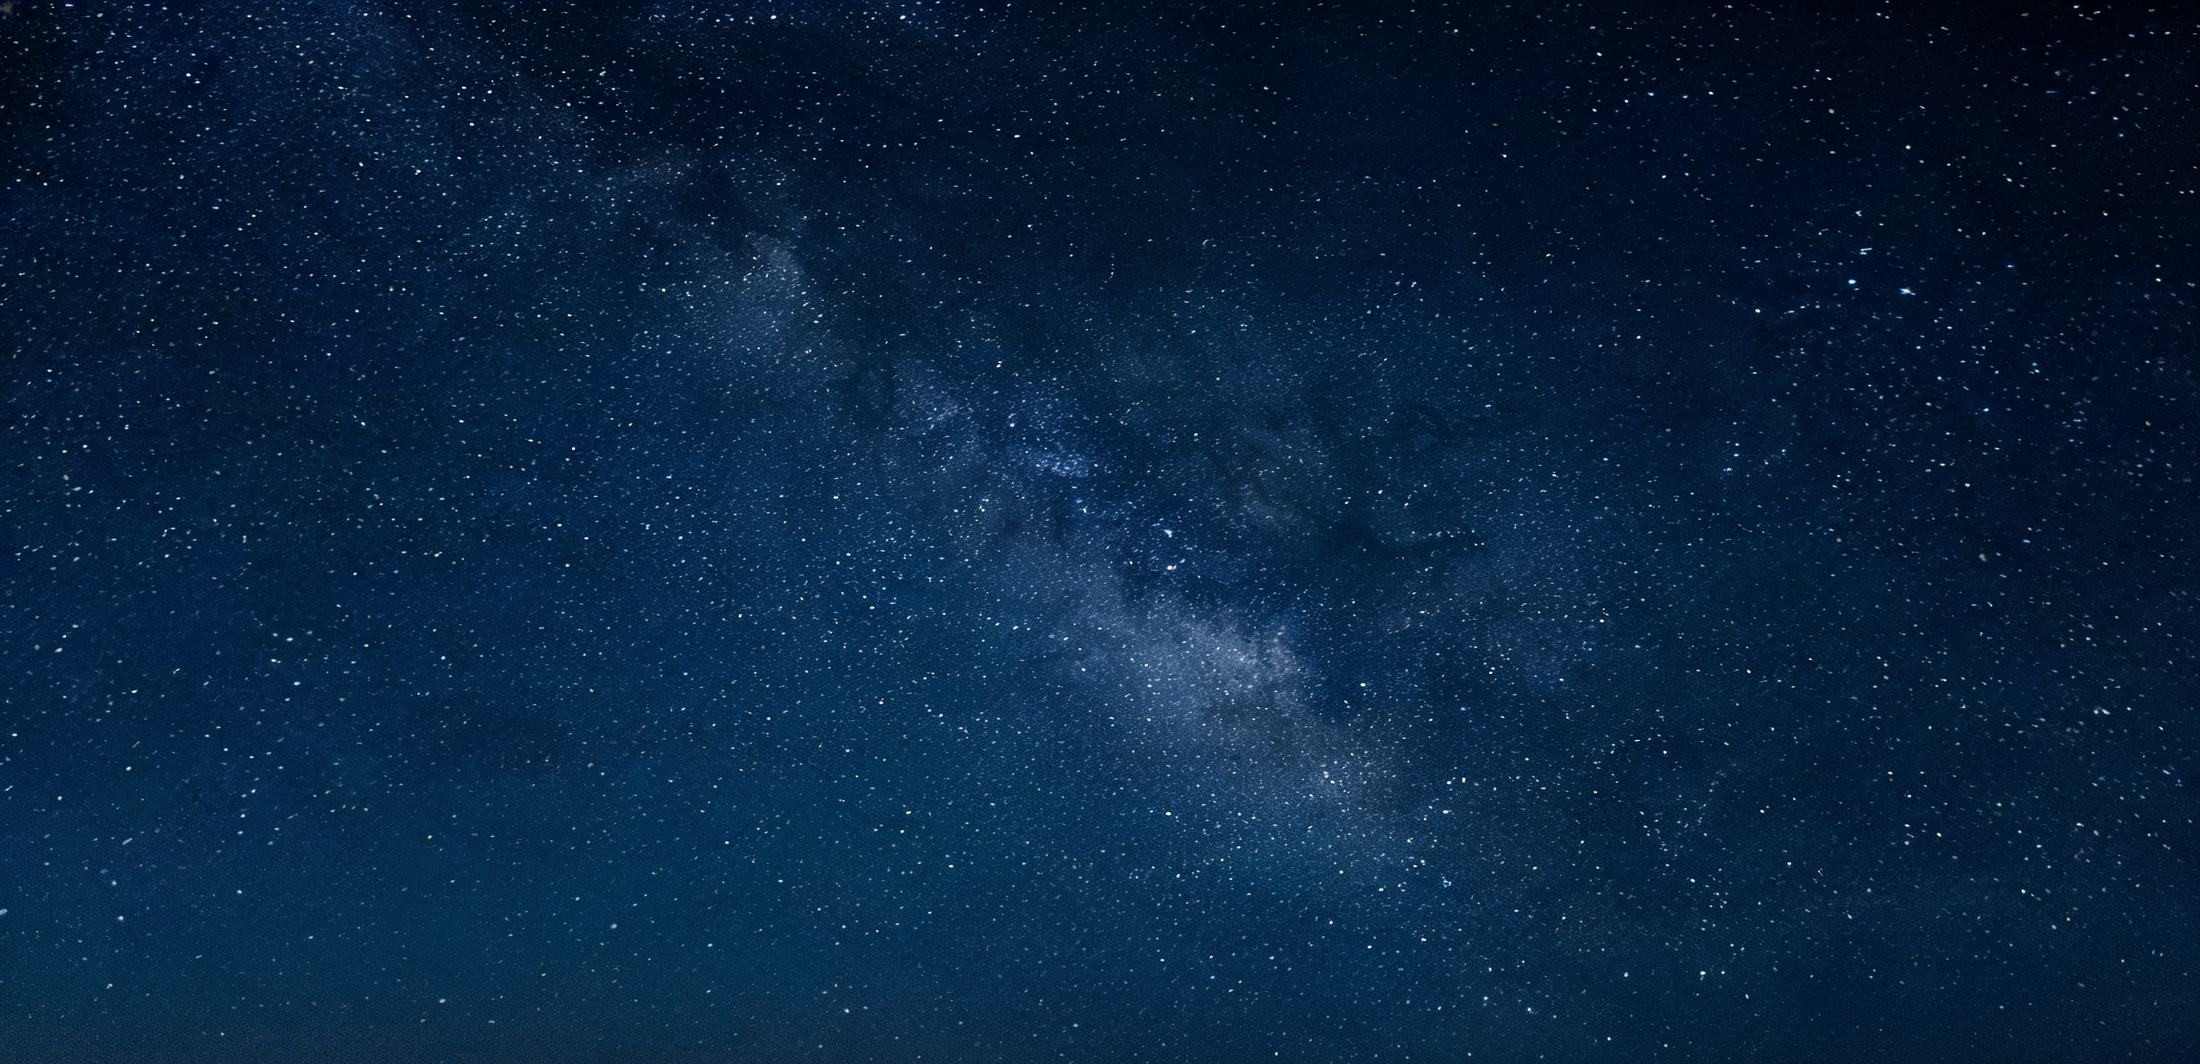
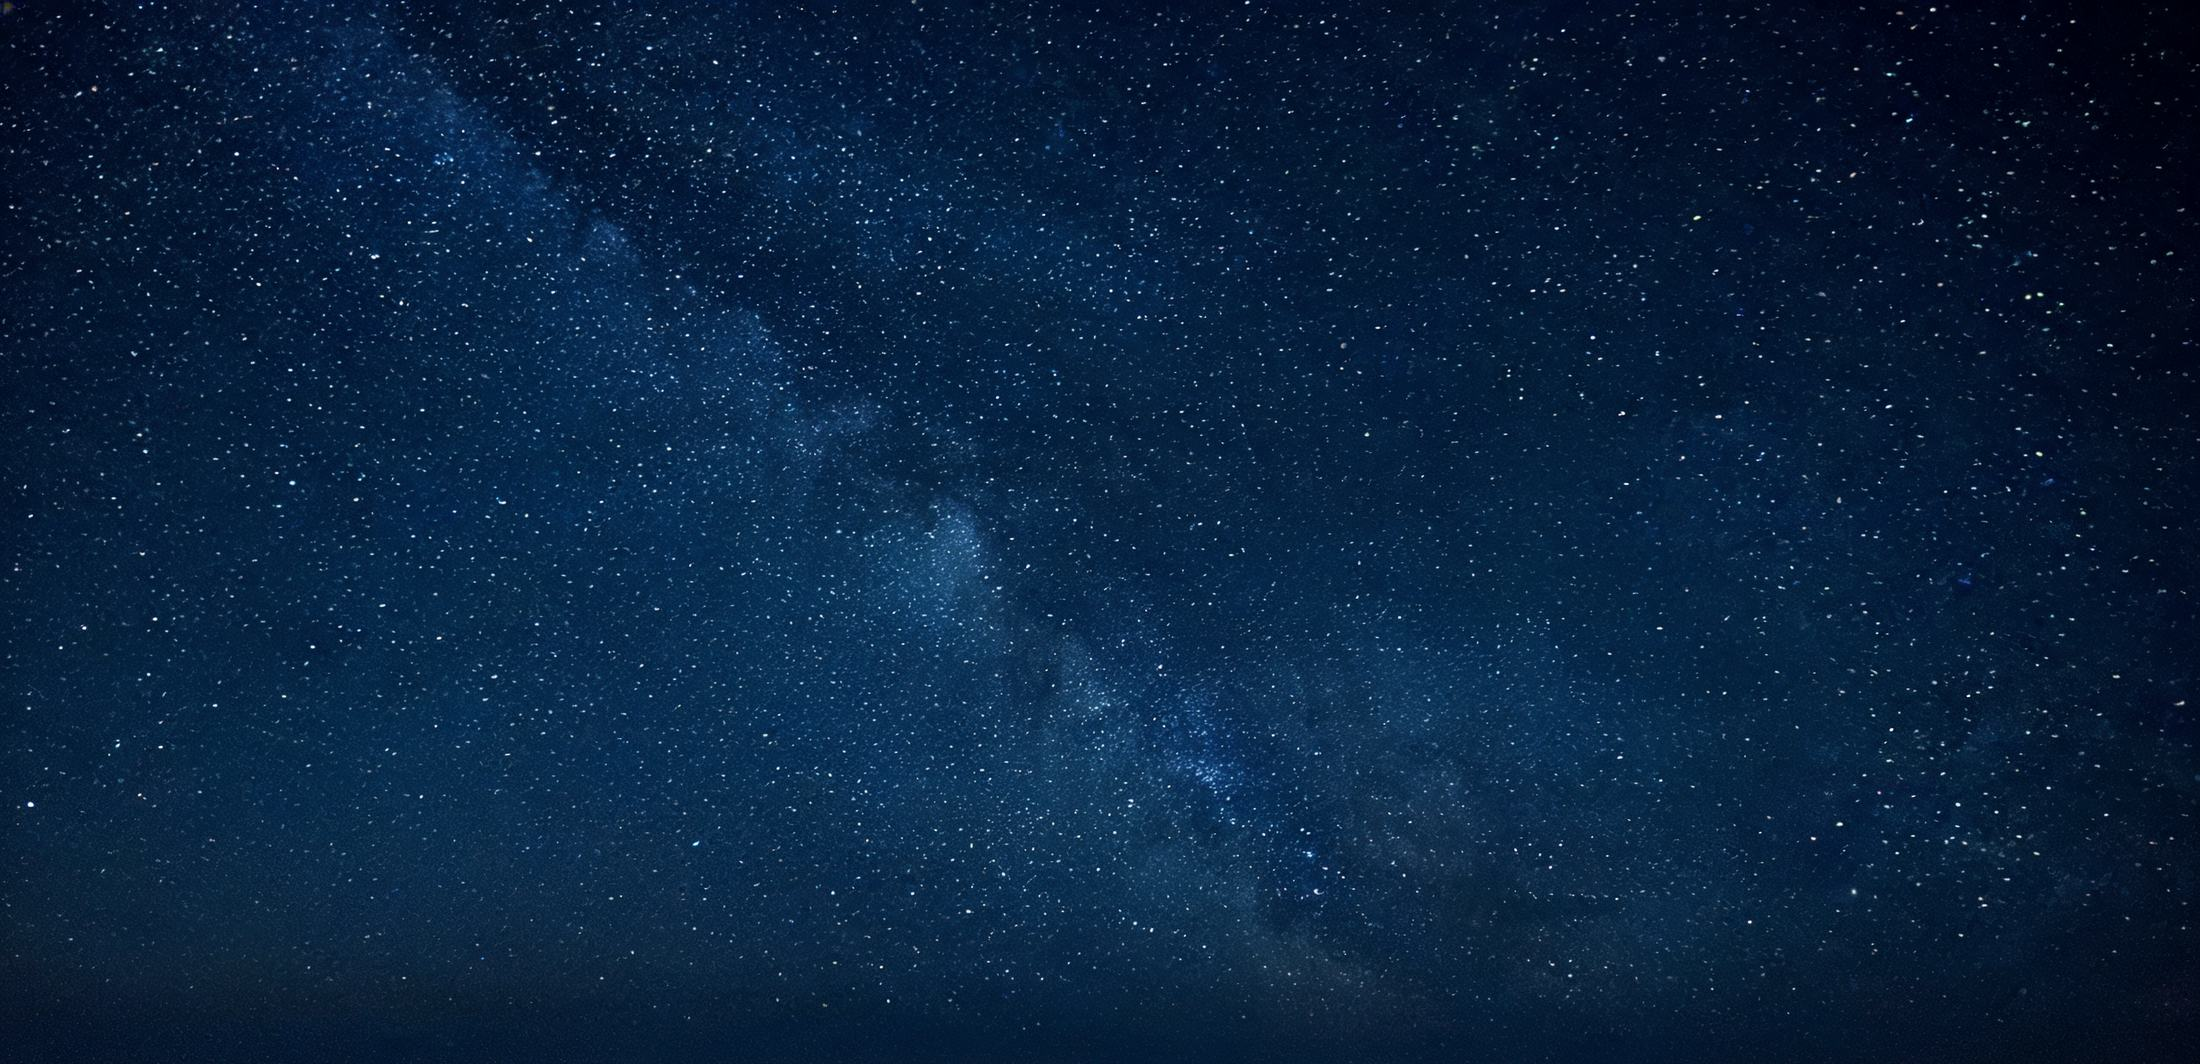
feat(designs): Celestial's sky and chart paper, under the commercial licence
The night sky is regenerated on Starter (the first was made on the free
plan, which has no commercial licence), and the chart is now printed on
a disc of photographed midnight-blue cotton paper.

diff --git a/public/designs/celestial/celestial-sky.css b/public/designs/celestial/celestial-sky.css
@@ -243,3 +243,13 @@ body .page-band{
   opacity:.5;
 }
 body .page-sky-far, body .page-sky-near{ display:none }
+
+/* the chart is printed on a disc of midnight-blue cotton paper (a
+   photograph), so the computed sky reads as ink on a real sheet */
+.cel-chart::before{
+  content:""; position:absolute; z-index:0;
+  inset:calc(100% * 48 / 420); border-radius:50%;
+  background:url("assets/plate.jpg") center / cover;
+  box-shadow:0 0 0 1px hsl(var(--c-gold) / .25), 0 30px 60px -20px rgba(0,0,0,.65), inset 0 0 40px rgba(0,0,0,.35);
+}
+.cel-chart svg{ z-index:1 }

diff --git a/public/designs/celestial/index.html b/public/designs/celestial/index.html
@@ -36,7 +36,7 @@
     <!-- Builder chrome (drawer tabs, editor layout). Shared by every design. -->
     <link rel="stylesheet" href="../_shared/wedding-ui.css?v=66">
     <!-- The rebuilt layout: the chart first, the night recorded after it -->
-    <link rel="stylesheet" href="celestial-sky.css?v=6">
+    <link rel="stylesheet" href="celestial-sky.css?v=8">
     <!-- Luma: hidden until the couple's details arrive, so the sample never shows -->
     <style>
         html.luma-loading { background: #0B1026; }
